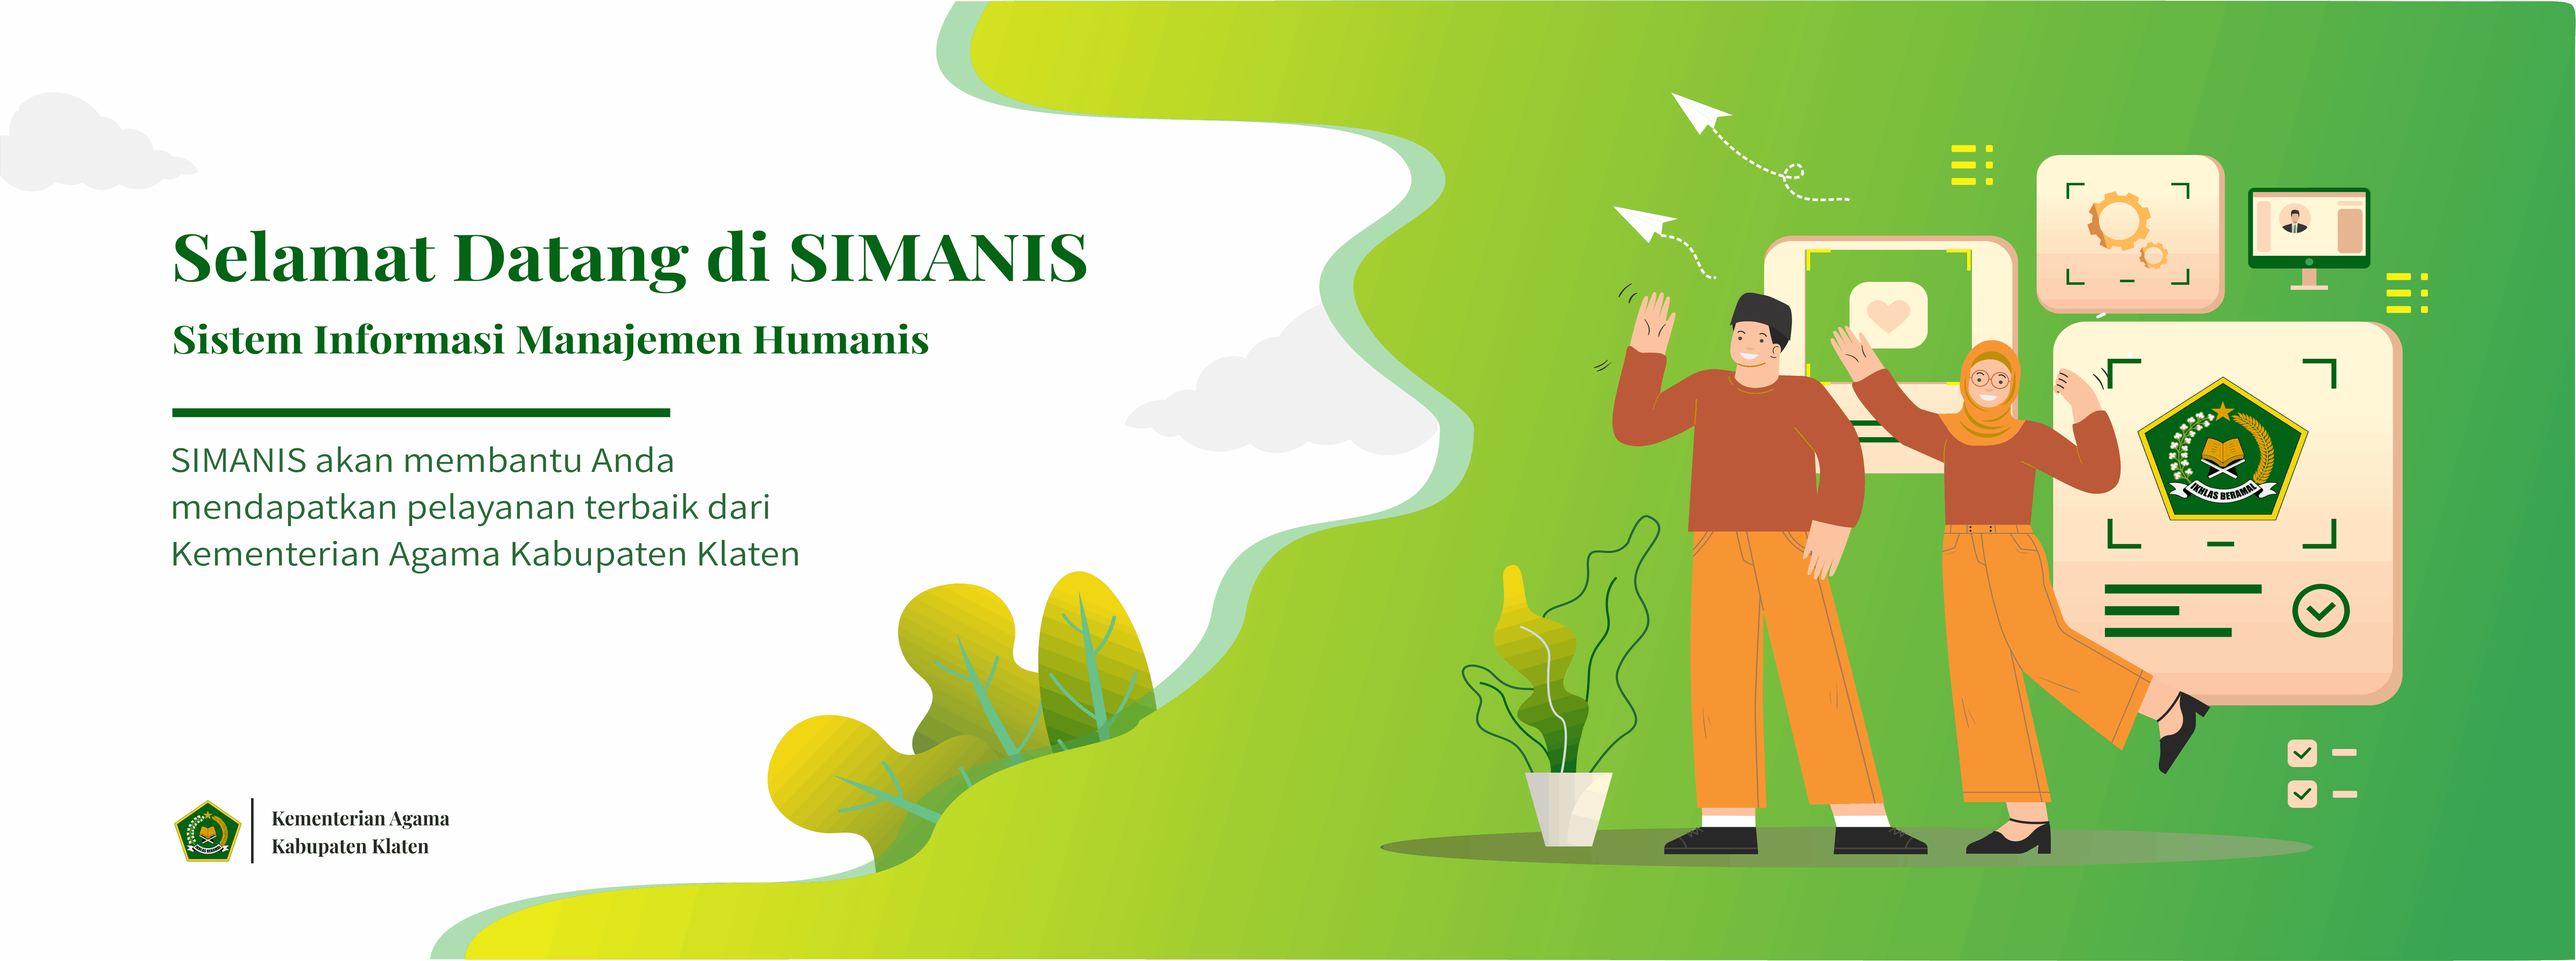
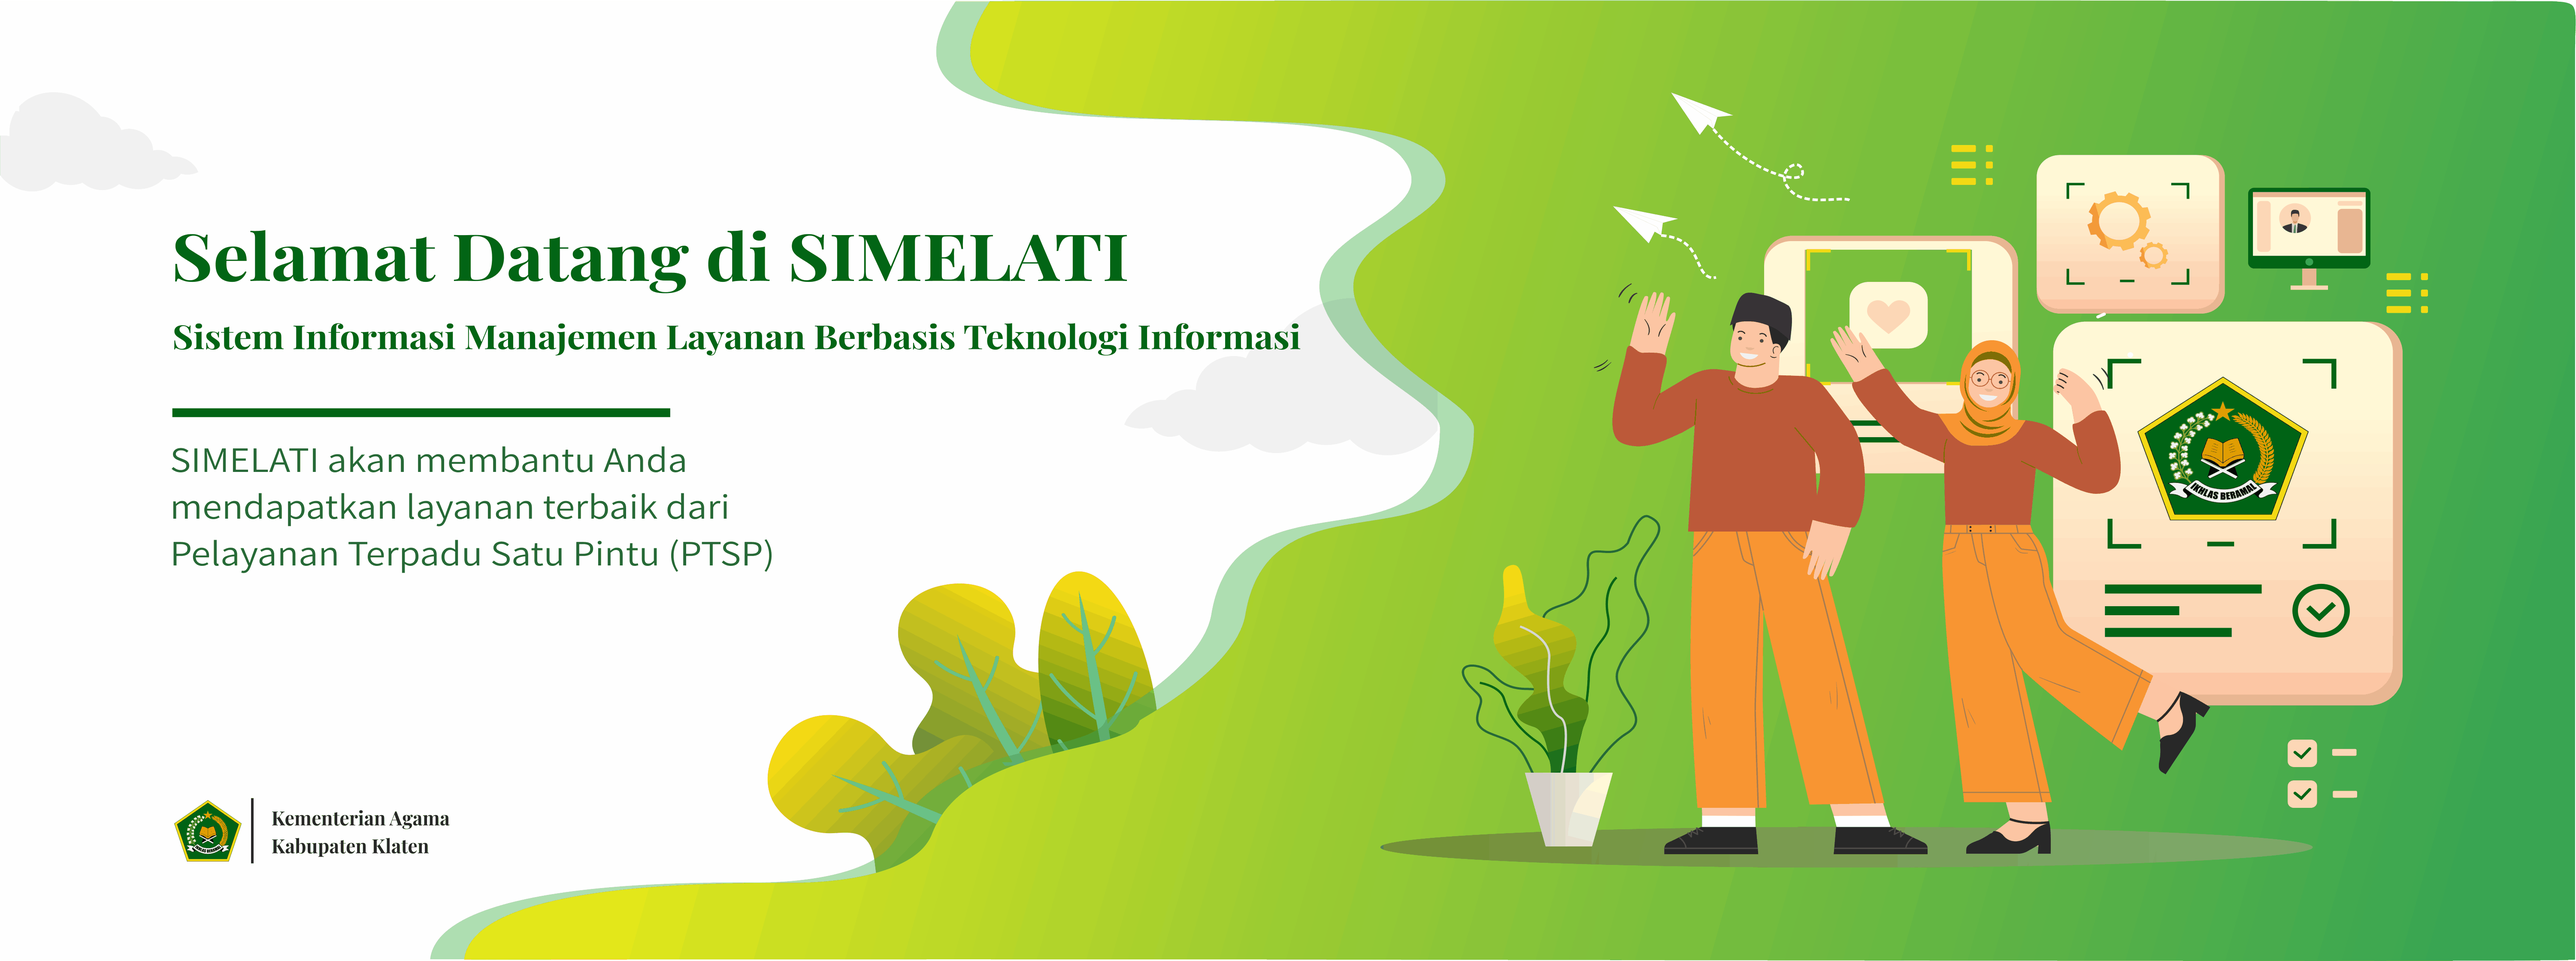
mau pull

diff --git a/assets/landing/styles/main.css b/assets/landing/styles/main.css
@@ -274,6 +274,18 @@ body {
   margin-top: 0px;
 }
 
+@media (max-width: 768px) {
+  .terkini-profile {
+    margin-top: -90px;
+  }
+}
+
+@media (max-width: 768px) {
+  .terkini-profile .profil-heading .profil {
+    margin-bottom: 0px !important;
+  }
+}
+
 .section-profile-heading h2 {
   font-family: 'Playfair Display', serif;
   font-weight: bold;
@@ -389,6 +401,16 @@ body {
 .card-body .terkini-list-title a {
   text-decoration: none;
   color: inherit;
+}
+
+.profil-heading h2 {
+  font-family: 'Playfair Display', serif;
+  font-weight: bold;
+  font-size: 35px;
+}
+
+.profil-heading p {
+  font-size: 18px;
 }
 
 .user-guide-heading {

diff --git a/assets/landing/styles/main.scss b/assets/landing/styles/main.scss
@@ -311,7 +311,22 @@ $breakpoint-tablet: 768px;
 
 .terkini-profile {
 	margin-top: 0px;
+
+	$breakpoint-tablet: 768px;
+
+	@media (max-width: $breakpoint-tablet) {
+		margin-top: -90px;
+	}
+
+	.profil-heading {
+		.profil {
+			@media (max-width: $breakpoint-tablet) {
+		margin-bottom: 0px !important;
+	}
+		}
+	}
 }
+
 
 .section-profile-heading {
 	h2 {
@@ -428,6 +443,20 @@ $breakpoint-tablet: 768px;
 			color: inherit;
 		}
 	}
+}
+
+// profile-heading 
+.profil-heading {
+	h2 {
+		font-family: 'Playfair Display', serif;
+		font-weight: bold;
+		font-size: 35px;
+	}
+
+	p {
+		font-size: 18px;
+	}
+	
 }
 
 //User Guide Heading

diff --git a/application/views/landing/beranda.php b/application/views/landing/beranda.php
@@ -43,8 +43,6 @@
 	</div>
 </div>
 
-</div>
-
 <!-- Header -->
 <header>
 	<div class="owl-carousel owl-theme">
@@ -63,7 +61,8 @@
 		<ul class="sticky">
 			<li>
 				<img src="<?= base_url('assets/landing/images/wa.png')?>" width="32" height="32">
-				<p><a href="https://api.whatsapp.com/send?phone=628112650662&text=Info" target="_blank">Chat Haji <br> & Umrah</a></p>
+				<p><a href="https://api.whatsapp.com/send?phone=628112650662&text=Info" target="_blank">Chat Haji <br> &
+						Umrah</a></p>
 			</li>
 		</ul>
 	</div>
@@ -71,10 +70,26 @@
 
 <!-- Main Content -->
 <main>
-	<section class="terkini-profile">
+
+	<section class="terkini-profile ">
+		<div class="profil-heading" id="user-guide">
+			<div class="container">
+				<div class="row">
+					<div class="col profil text-center mt-4 mb-4">
+						<h2>Profil</h2>
+						<p class="mb-1">Mengenal Kementerian Agama
+							<br>
+							Kabupaten Klaten
+						</p>
+					</div>
+				</div>
+			</div>
+		</div>
+
 		<div class="container">
 			<div class="section-terkini-profile row justify-content-center">
-				<div class="col-md-6">
+				<!-- Berita -->
+				<!-- <div class="col-md-6">
 					<div class="card shadow mb-2 px-4">
 						<div class="card-body">
 							<h3 class="card-title terkini-title">Terkini</h3>
@@ -187,32 +202,17 @@
 									class="fas fa-arrow-right"></i></a>
 						</div>
 					</div>
-				</div>
+				</div> -->
 				<div class="col-md-6">
-					<div class="row">
-						<div class="col text-center section-profile-heading">
-							<h2>Profil</h2>
-							<p class="mb-1">Mengenal Kementerian Agama
-								<br>
-								Kabupaten Klaten
-							</p>
-							<div class="image-office mb-2">
-								<img class="img-fluid" src="<?= base_url('assets/landing/images/kantor.png')?>"
-									alt="kantor kemenag">
-								<center>
-									<figcaption>Kantor Kemenag Klaten</figcaption>
-								</center>
-							</div>
-						</div>
-
-					</div>
 					<div class="row">
 						<div class="col justify-content-center section-profile-content">
 							<p class="mb-0">
 								Kantor Kementerian Agama Kabupaten Klaten merupakan salah
-								satu instansi vertical Kementerian Agama yang berada dibawah
+								satu instansi vertikal Kementerian Agama yang berada dibawah
 								dan bertanggung jawab kepada Kementerian Agama Provinsi
-								Jawa Tengah.
+								Jawa Tengah. Kantor Kementerian Agama Kab. Klaten ini terletak di
+								JL. Ronggowarsito, 57431, Gunungan, Bareng Lor, Kec. Klaten Utara, 
+								Kabupaten Klaten, Jawa Tengah 57468
 							</p>
 							<p class="my-0">
 								Selengkapnya klik dibawah ini:
@@ -222,6 +222,21 @@
 							</p>
 						</div>
 					</div>
+				</div>
+				<div class="col-md-6">
+					<div class="row">
+						<div class="col text-center section-profile-heading">
+
+							<div class="image-office mb-2">
+								<img class="img-fluid" src="<?= base_url('assets/landing/images/kantor.png')?>"
+									alt="kantor kemenag">
+								<center>
+									<figcaption>Kantor Kemenag Klaten</figcaption>
+								</center>
+							</div>
+						</div>
+					</div>
+
 				</div>
 			</div>
 		</div>
@@ -353,8 +368,8 @@
 		<div class="container">
 			<div class="row">
 				<div class="col-md-4">
-					<h2>Aplikasi SIMANIS</h2>
-					<p>Untuk install aplikasi SIMANIS berbasis
+					<h2>Aplikasi SIMELATI</h2>
+					<p>Untuk install aplikasi SIMELATI berbasis
 						<br>
 						android di SmartPhone Anda. Silahkan
 						<br>

diff --git a/application/views/landing/ptsp.php b/application/views/landing/ptsp.php
@@ -81,7 +81,7 @@
 					</p>
 				</div>
 			</div>
-			<div class="row mb-2">
+			<!-- <div class="row mb-2">
 				<div class="col text-center section-tata-cara mt-0">
 					<div class="input-group mb-3 cari-permohonan">
 						<input type="text" class="form-control" placeholder="Cari permohonan...."
@@ -91,7 +91,7 @@
 						</div>
 					</div>
 				</div>
-			</div>
+			</div> -->
 			<div class="row mb-0">
 				<div class="col-md-4 item-ptsp">
 					<div class="card item-1 shadow text-center d-flex flex-column mb-3">
